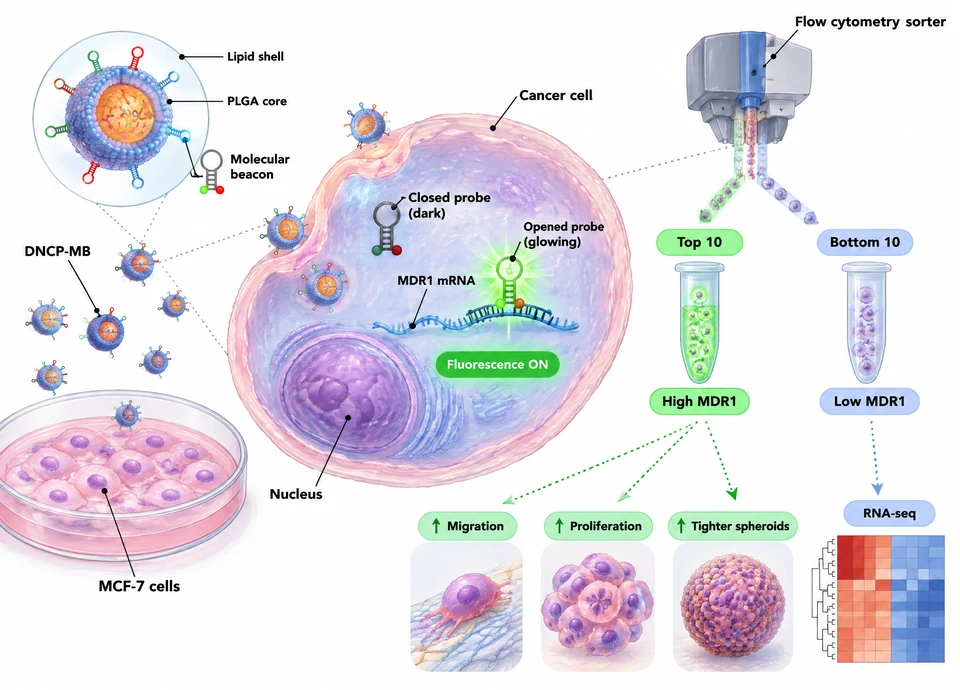
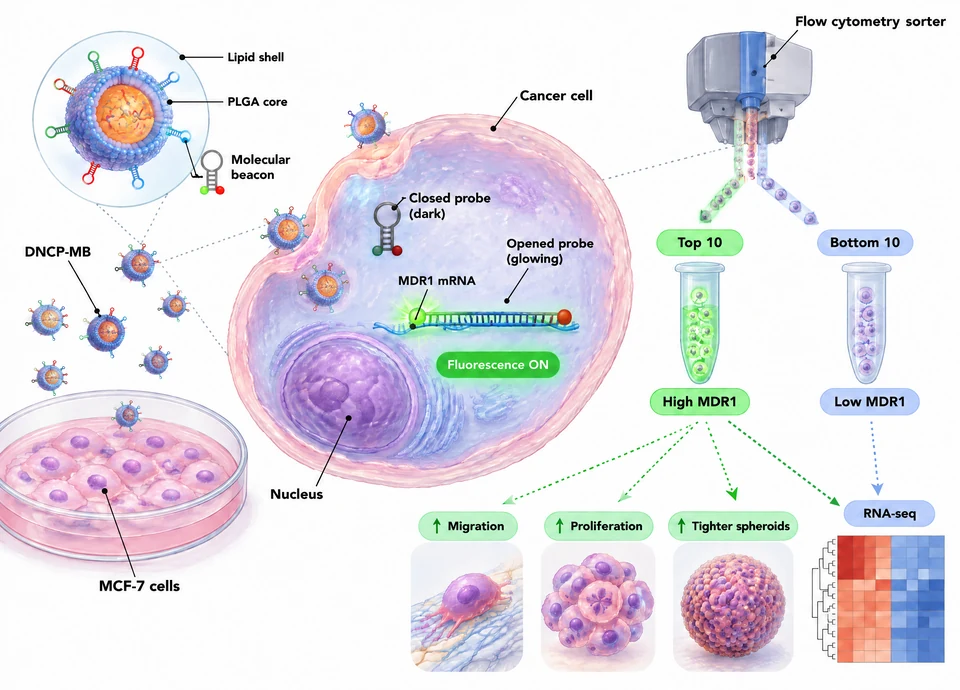
Fix two selected-paper schematics flagged in the pre-launch review
DDTR 2025: the IV injection now goes into a vein instead of pointing into the
lung, and the unsupported 'Injured tissue' label reads 'Target tissue'.
BIOS 2024: the opened molecular beacon is drawn as a linear strand bound to
MDR1 mRNA, and RNA-seq now has an arrow from the High MDR1 (Top 10) group as
well, as in the abstract.

diff --git a/docs/zh/publications/index.html b/docs/zh/publications/index.html
@@ -76,8 +76,8 @@
     <ul class="pub-cards">
 <li class="pub pub-card" id="pub-10-1007-s13346-025-01927-4">
   <div class="pub-figs">
-    <a class="pub-fig" href="../../static/img/pubs/10-1007-s13346-025-01927-4-schematic.webp?v=dc2f3dac" data-zoom data-caption="示意圖：Hanging drop culture reprograms mesenchymal stem cell transcriptome to enhance cell delivery efficiency via attenuated pulmonary entrapment" aria-label="放大示意圖：Hanging drop culture reprograms mesenchymal stem cell transcriptome to enhance cell delivery efficiency via attenuated pulmonary entrapment">
-      <img src="../../static/img/pubs/10-1007-s13346-025-01927-4-schematic-sm.webp?v=187e34ec" srcset="../../static/img/pubs/10-1007-s13346-025-01927-4-schematic-sm.webp?v=187e34ec 960w, ../../static/img/pubs/10-1007-s13346-025-01927-4-schematic.webp?v=dc2f3dac 1600w" sizes="(max-width: 880px) 92vw, 830px" alt="" width="960" height="499" loading="lazy" decoding="async">
+    <a class="pub-fig" href="../../static/img/pubs/10-1007-s13346-025-01927-4-schematic.webp?v=228329c3" data-zoom data-caption="示意圖：Hanging drop culture reprograms mesenchymal stem cell transcriptome to enhance cell delivery efficiency via attenuated pulmonary entrapment" aria-label="放大示意圖：Hanging drop culture reprograms mesenchymal stem cell transcriptome to enhance cell delivery efficiency via attenuated pulmonary entrapment">
+      <img src="../../static/img/pubs/10-1007-s13346-025-01927-4-schematic-sm.webp?v=6217b84f" srcset="../../static/img/pubs/10-1007-s13346-025-01927-4-schematic-sm.webp?v=6217b84f 960w, ../../static/img/pubs/10-1007-s13346-025-01927-4-schematic.webp?v=228329c3 1600w" sizes="(max-width: 880px) 92vw, 830px" alt="" width="960" height="530" loading="lazy" decoding="async">
     </a>
   </div>
   <div class="pub-text"><span class="pub-authors">Lee HT, Fu SY, Weng WH, Chao WC, Hsu YP, Yang NP, Chen YH, Chen SK, <strong class="corr"><u>Chang CW</u>*</strong>.</span>
@@ -86,8 +86,8 @@
   <a class="pub-doi" href="https://doi.org/10.1007/s13346-025-01927-4" rel="noopener">DOI</a></div>
 </li><li class="pub pub-card" id="pub-10-1016-j-bios-2023-115985">
   <div class="pub-figs">
-    <a class="pub-fig" href="../../static/img/pubs/10-1016-j-bios-2023-115985-schematic.webp?v=6aa85954" data-zoom data-caption="示意圖：Isolation and characterizations of multidrug-resistant human cancer cells by a biodegradable nano-sensor" aria-label="放大示意圖：Isolation and characterizations of multidrug-resistant human cancer cells by a biodegradable nano-sensor">
-      <img src="../../static/img/pubs/10-1016-j-bios-2023-115985-schematic-sm.webp?v=55b48fd1" srcset="../../static/img/pubs/10-1016-j-bios-2023-115985-schematic-sm.webp?v=55b48fd1 960w, ../../static/img/pubs/10-1016-j-bios-2023-115985-schematic.webp?v=6aa85954 1600w" sizes="(max-width: 880px) 92vw, 830px" alt="" width="960" height="690" loading="lazy" decoding="async">
+    <a class="pub-fig" href="../../static/img/pubs/10-1016-j-bios-2023-115985-schematic.webp?v=0c711245" data-zoom data-caption="示意圖：Isolation and characterizations of multidrug-resistant human cancer cells by a biodegradable nano-sensor" aria-label="放大示意圖：Isolation and characterizations of multidrug-resistant human cancer cells by a biodegradable nano-sensor">
+      <img src="../../static/img/pubs/10-1016-j-bios-2023-115985-schematic-sm.webp?v=9abc216b" srcset="../../static/img/pubs/10-1016-j-bios-2023-115985-schematic-sm.webp?v=9abc216b 960w, ../../static/img/pubs/10-1016-j-bios-2023-115985-schematic.webp?v=0c711245 1600w" sizes="(max-width: 880px) 92vw, 830px" alt="" width="960" height="690" loading="lazy" decoding="async">
     </a>
   </div>
   <div class="pub-text"><span class="pub-authors">Weng WH, Wang CY, Yan ZY, Lee HT, Kao CY, <strong class="corr"><u>Chang CW</u>*</strong>.</span>

diff --git a/docs/publications/index.html b/docs/publications/index.html
@@ -75,8 +75,8 @@
     <ul class="pub-cards">
 <li class="pub pub-card" id="pub-10-1007-s13346-025-01927-4">
   <div class="pub-figs">
-    <a class="pub-fig" href="../static/img/pubs/10-1007-s13346-025-01927-4-schematic.webp?v=dc2f3dac" data-zoom data-caption="Schematic: Hanging drop culture reprograms mesenchymal stem cell transcriptome to enhance cell delivery efficiency via attenuated pulmonary entrapment" aria-label="Enlarge schematic: Hanging drop culture reprograms mesenchymal stem cell transcriptome to enhance cell delivery efficiency via attenuated pulmonary entrapment">
-      <img src="../static/img/pubs/10-1007-s13346-025-01927-4-schematic-sm.webp?v=187e34ec" srcset="../static/img/pubs/10-1007-s13346-025-01927-4-schematic-sm.webp?v=187e34ec 960w, ../static/img/pubs/10-1007-s13346-025-01927-4-schematic.webp?v=dc2f3dac 1600w" sizes="(max-width: 880px) 92vw, 830px" alt="" width="960" height="499" loading="lazy" decoding="async">
+    <a class="pub-fig" href="../static/img/pubs/10-1007-s13346-025-01927-4-schematic.webp?v=228329c3" data-zoom data-caption="Schematic: Hanging drop culture reprograms mesenchymal stem cell transcriptome to enhance cell delivery efficiency via attenuated pulmonary entrapment" aria-label="Enlarge schematic: Hanging drop culture reprograms mesenchymal stem cell transcriptome to enhance cell delivery efficiency via attenuated pulmonary entrapment">
+      <img src="../static/img/pubs/10-1007-s13346-025-01927-4-schematic-sm.webp?v=6217b84f" srcset="../static/img/pubs/10-1007-s13346-025-01927-4-schematic-sm.webp?v=6217b84f 960w, ../static/img/pubs/10-1007-s13346-025-01927-4-schematic.webp?v=228329c3 1600w" sizes="(max-width: 880px) 92vw, 830px" alt="" width="960" height="530" loading="lazy" decoding="async">
     </a>
   </div>
   <div class="pub-text"><span class="pub-authors">Lee HT, Fu SY, Weng WH, Chao WC, Hsu YP, Yang NP, Chen YH, Chen SK, <strong class="corr"><u>Chang CW</u>*</strong>.</span>
@@ -85,8 +85,8 @@
   <a class="pub-doi" href="https://doi.org/10.1007/s13346-025-01927-4" rel="noopener">DOI</a></div>
 </li><li class="pub pub-card" id="pub-10-1016-j-bios-2023-115985">
   <div class="pub-figs">
-    <a class="pub-fig" href="../static/img/pubs/10-1016-j-bios-2023-115985-schematic.webp?v=6aa85954" data-zoom data-caption="Schematic: Isolation and characterizations of multidrug-resistant human cancer cells by a biodegradable nano-sensor" aria-label="Enlarge schematic: Isolation and characterizations of multidrug-resistant human cancer cells by a biodegradable nano-sensor">
-      <img src="../static/img/pubs/10-1016-j-bios-2023-115985-schematic-sm.webp?v=55b48fd1" srcset="../static/img/pubs/10-1016-j-bios-2023-115985-schematic-sm.webp?v=55b48fd1 960w, ../static/img/pubs/10-1016-j-bios-2023-115985-schematic.webp?v=6aa85954 1600w" sizes="(max-width: 880px) 92vw, 830px" alt="" width="960" height="690" loading="lazy" decoding="async">
+    <a class="pub-fig" href="../static/img/pubs/10-1016-j-bios-2023-115985-schematic.webp?v=0c711245" data-zoom data-caption="Schematic: Isolation and characterizations of multidrug-resistant human cancer cells by a biodegradable nano-sensor" aria-label="Enlarge schematic: Isolation and characterizations of multidrug-resistant human cancer cells by a biodegradable nano-sensor">
+      <img src="../static/img/pubs/10-1016-j-bios-2023-115985-schematic-sm.webp?v=9abc216b" srcset="../static/img/pubs/10-1016-j-bios-2023-115985-schematic-sm.webp?v=9abc216b 960w, ../static/img/pubs/10-1016-j-bios-2023-115985-schematic.webp?v=0c711245 1600w" sizes="(max-width: 880px) 92vw, 830px" alt="" width="960" height="690" loading="lazy" decoding="async">
     </a>
   </div>
   <div class="pub-text"><span class="pub-authors">Weng WH, Wang CY, Yan ZY, Lee HT, Kao CY, <strong class="corr"><u>Chang CW</u>*</strong>.</span>

diff --git a/docs/zh/index.html b/docs/zh/index.html
@@ -151,14 +151,14 @@
     </div>
     <ul class="teaser-grid">
       <li class="teaser-card">
-        <div class="teaser-fig"><img src="../static/img/pubs/10-1007-s13346-025-01927-4-schematic-sm.webp?v=187e34ec" alt="" width="960" height="499" loading="lazy" decoding="async"></div>
+        <div class="teaser-fig"><img src="../static/img/pubs/10-1007-s13346-025-01927-4-schematic-sm.webp?v=6217b84f" alt="" width="960" height="530" loading="lazy" decoding="async"></div>
         <div class="teaser-body">
           <p class="teaser-venue"><em>Drug Delivery and Translational Research</em> · 2025</p>
           <h3 class="teaser-title"><a href="../zh/publications/#pub-10-1007-s13346-025-01927-4">Hanging drop culture reprograms mesenchymal stem cell transcriptome to enhance cell delivery efficiency via attenuated pulmonary entrapment</a></h3>
         </div>
       </li>
       <li class="teaser-card">
-        <div class="teaser-fig"><img src="../static/img/pubs/10-1016-j-bios-2023-115985-schematic-sm.webp?v=55b48fd1" alt="" width="960" height="690" loading="lazy" decoding="async"></div>
+        <div class="teaser-fig"><img src="../static/img/pubs/10-1016-j-bios-2023-115985-schematic-sm.webp?v=9abc216b" alt="" width="960" height="690" loading="lazy" decoding="async"></div>
         <div class="teaser-body">
           <p class="teaser-venue"><em>Biosensors and Bioelectronics</em> · 2024</p>
           <h3 class="teaser-title"><a href="../zh/publications/#pub-10-1016-j-bios-2023-115985">Isolation and characterizations of multidrug-resistant human cancer cells by a biodegradable nano-sensor</a></h3>

diff --git a/docs/index.html b/docs/index.html
@@ -150,14 +150,14 @@
     </div>
     <ul class="teaser-grid">
       <li class="teaser-card">
-        <div class="teaser-fig"><img src="static/img/pubs/10-1007-s13346-025-01927-4-schematic-sm.webp?v=187e34ec" alt="" width="960" height="499" loading="lazy" decoding="async"></div>
+        <div class="teaser-fig"><img src="static/img/pubs/10-1007-s13346-025-01927-4-schematic-sm.webp?v=6217b84f" alt="" width="960" height="530" loading="lazy" decoding="async"></div>
         <div class="teaser-body">
           <p class="teaser-venue"><em>Drug Delivery and Translational Research</em> · 2025</p>
           <h3 class="teaser-title"><a href="publications/#pub-10-1007-s13346-025-01927-4">Hanging drop culture reprograms mesenchymal stem cell transcriptome to enhance cell delivery efficiency via attenuated pulmonary entrapment</a></h3>
         </div>
       </li>
       <li class="teaser-card">
-        <div class="teaser-fig"><img src="static/img/pubs/10-1016-j-bios-2023-115985-schematic-sm.webp?v=55b48fd1" alt="" width="960" height="690" loading="lazy" decoding="async"></div>
+        <div class="teaser-fig"><img src="static/img/pubs/10-1016-j-bios-2023-115985-schematic-sm.webp?v=9abc216b" alt="" width="960" height="690" loading="lazy" decoding="async"></div>
         <div class="teaser-body">
           <p class="teaser-venue"><em>Biosensors and Bioelectronics</em> · 2024</p>
           <h3 class="teaser-title"><a href="publications/#pub-10-1016-j-bios-2023-115985">Isolation and characterizations of multidrug-resistant human cancer cells by a biodegradable nano-sensor</a></h3>
